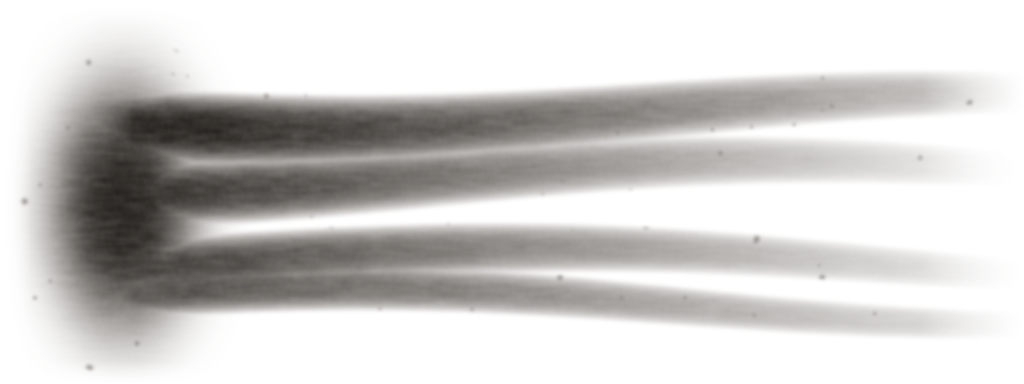
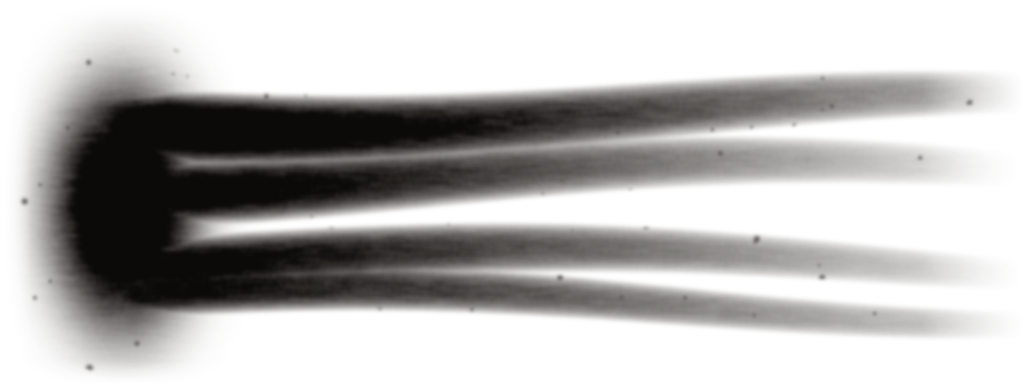
Mechanic: stronger, bigger grease smears
Claude-Session: https://claude.ai/code/session_01YB5yxjfvq1qMjyRkuhq9NW

diff --git a/cheese-team/classes/classes.py b/cheese-team/classes/classes.py
@@ -973,9 +973,9 @@ def mechanic(P, T):
     # black grease smudges (finger swipes) on the wedge: soft alpha decals
     gm = A.mat_image('M_GreaseSmear', 'grease_smear.png', rough=0.35, bump=0.0)
     alpha_mat(gm)
-    for k, (cx, cz, L, W, ang, flip) in enumerate(((-0.040, 0.630, 0.118, 0.050, math.radians(38), False),
-                                                  (-0.140, 0.885, 0.078, 0.036, math.radians(-62), True),
-                                                  (0.150, 0.650, 0.064, 0.030, math.radians(-118), False))):
+    for k, (cx, cz, L, W, ang, flip) in enumerate(((-0.044, 0.632, 0.150, 0.068, math.radians(38), False),
+                                                  (-0.140, 0.890, 0.096, 0.048, math.radians(-62), True),
+                                                  (0.152, 0.652, 0.078, 0.040, math.radians(-118), False))):
         obs.append(tex_decal(P, 'Mech_Grease%d' % k, cx, cz, L, W, ang, gm, flip=flip))
     # red shop rag stuffed into the big jaw hole, a tail hanging out
     rag = A.mat_plain('M_ShopRag', '#b3231d', rough=0.9, col2='#8c1813', nscale=70, bump=0.35, bscale=1400)

diff --git a/cheese-team/classes/gen_textures.py b/cheese-team/classes/gen_textures.py
@@ -135,9 +135,9 @@ def grease(name='grease_smear'):
         x0, y0 = rng.rand() * W * 0.95, rng.rand() * H
         r = rng.rand() * 3 + 1
         alpha = np.maximum(alpha, np.exp(-(((xx - x0) ** 2 + (yy - y0) ** 2) / (r * r))) * 0.55 * (alpha > 0.05))
-    a = np.asarray(Image.fromarray((np.clip(alpha, 0, 1) * 255).astype(np.uint8)).filter(ImageFilter.GaussianBlur(1.6))) / 255.0
+    a = np.asarray(Image.fromarray((np.clip(alpha * 1.45, 0, 1) * 255).astype(np.uint8)).filter(ImageFilter.GaussianBlur(1.6))) / 255.0
     col = np.zeros((H, W, 3))
-    lo = np.array([16, 13, 10]); hi = np.array([62, 50, 38])
+    lo = np.array([12, 10, 8]); hi = np.array([44, 36, 28])
     m = np.clip(1.0 - a, 0, 1)[..., None]
     col = lo + (hi - lo) * m * (0.7 + 0.3 * grain[..., None])
     rgba = np.dstack([col, a * 255]).astype(np.uint8)
